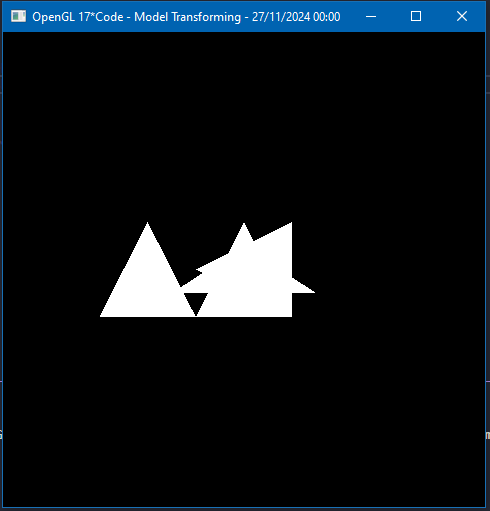
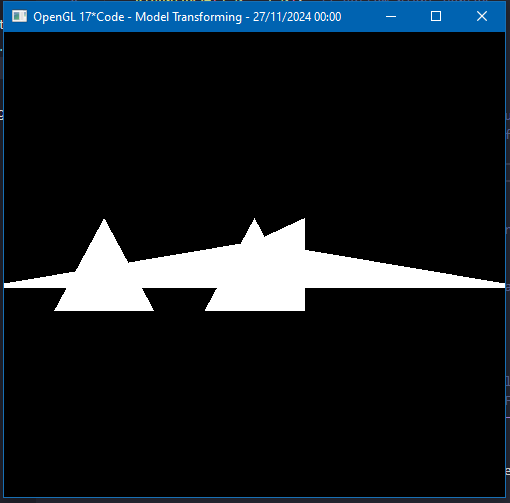
fix model transforming

diff --git a/3. Viewing/4 Model Transforming/main.c b/3. Viewing/4 Model Transforming/main.c
@@ -28,13 +28,14 @@ void display() {
     glEnable(GL_LINE_STIPPLE);  // Enable line stippling (dashed lines)
     glLineStipple(1, 0xF0F0);  // Set dash pattern (FOFO)
     glLoadIdentity();  // Reset the transformation matrix
-    glTranslatef(-2.0, 0.0, 0.0);  // Move the triangle to the left
+    glTranslatef(-3.0, 0.0, 0.0);  // Move the triangle to the left
     draw_triangle();  // Draw the dashed triangle
+
     glLineStipple(1, 0xF00F);  // Change dash pattern (FOOF)
 
     // Draw scaled triangle
     glLoadIdentity();  // Reset the transformation matrix
-    glScalef(1.5, 0.5, 1.0);  // Scale the triangle (stretch in X and compress in Y)
+    glScalef(5.5, 0.5, 1.0);  // Scale the triangle (stretch in X and compress in Y)
     draw_triangle();  // Draw the scaled triangle
 
     // Draw rotated triangle
